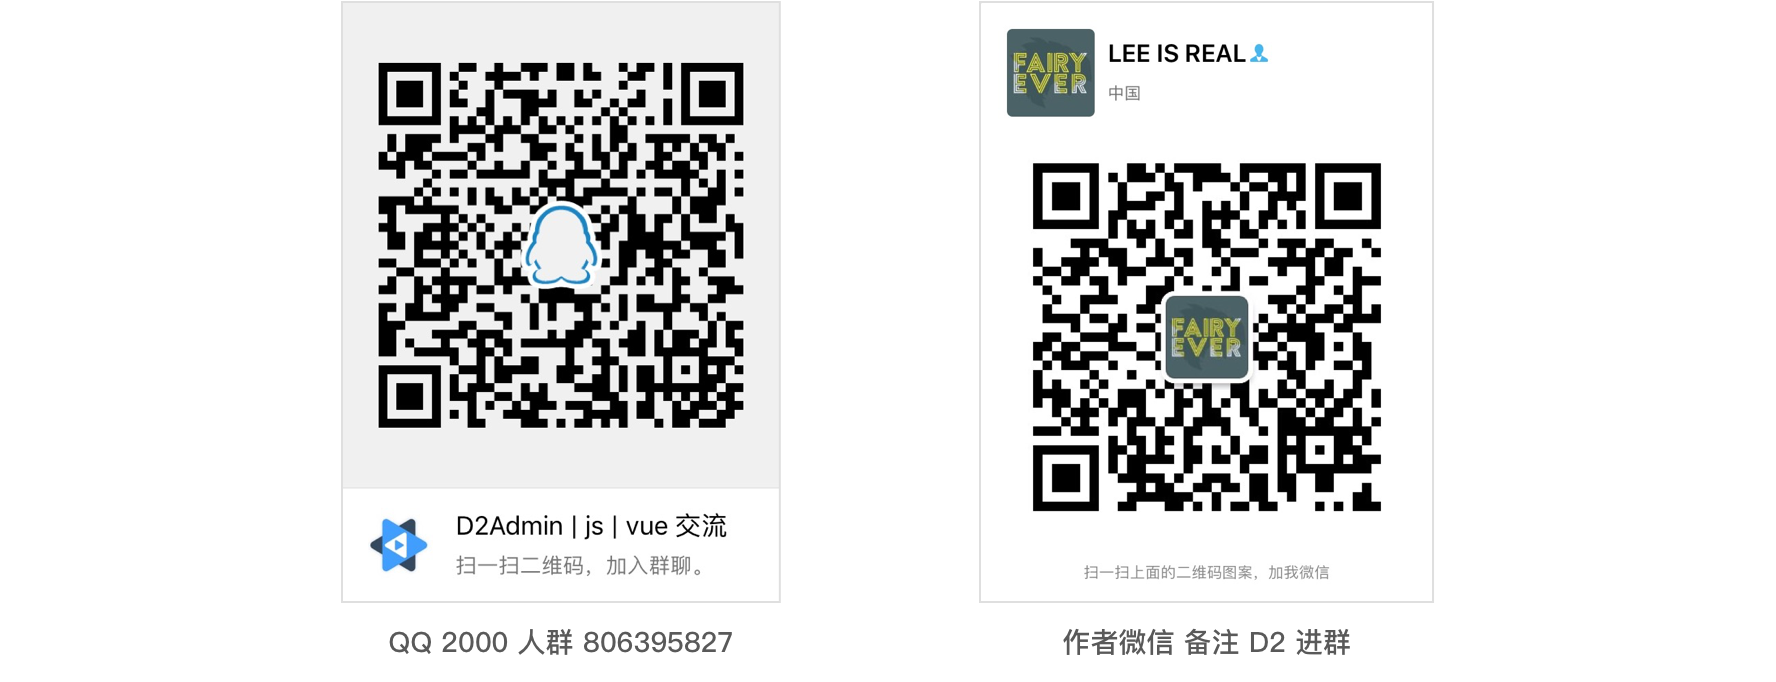
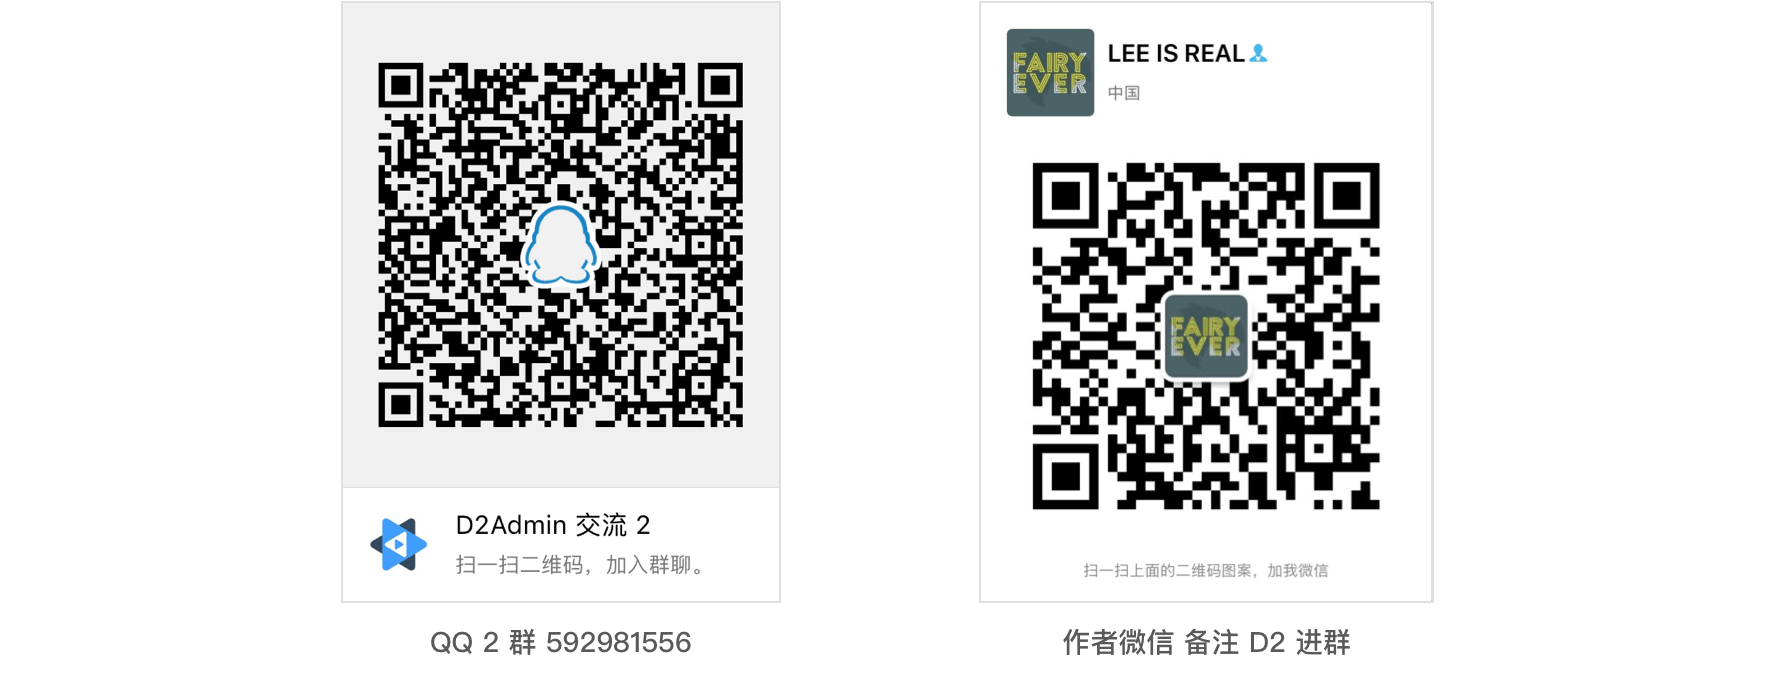
update readme

diff --git a/README.zh.md b/README.zh.md
@@ -160,7 +160,10 @@
 
 ## 加入我们
 
-D2Admin 是完全开源免费的项目，旨在帮助开发者更方便地进行管理系统开发，同时也提供 2000 人的 QQ 交流群和微信群，前后端的朋友可以相互答疑，项目组成员全部在内，所有 D2 相关项目使用问题欢迎在群内提问。
+D2Admin 是完全开源免费的项目，旨在帮助开发者更方便地进行管理系统开发，同时也提供 QQ 交流群和微信群，前后端的朋友可以相互答疑，项目组成员全部在内，所有 D2 相关项目使用问题欢迎在群内提问。
+
+* QQ 1 群 `806395827` ( 2000 人已满 )
+* QQ 2 群 `592981556`
 
 ![join](https://raw.githubusercontent.com/FairyEver/d2-admin/master/doc/image/join@2x.png)
 
